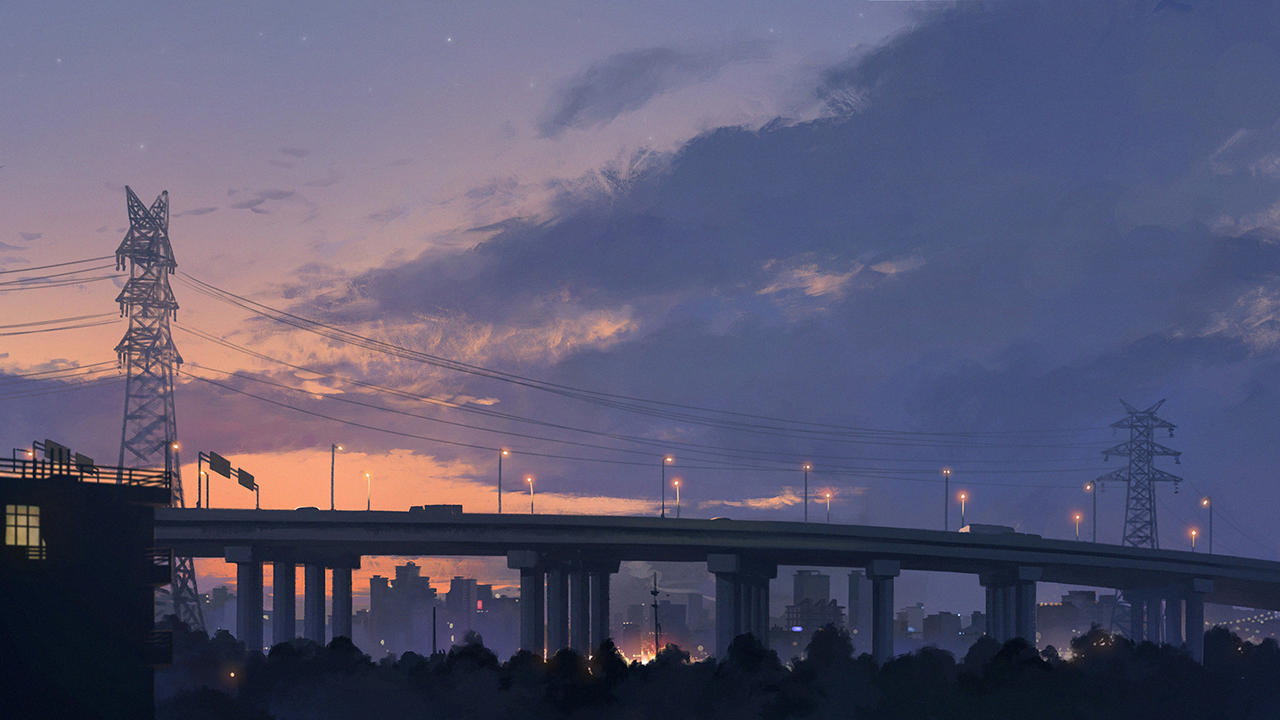
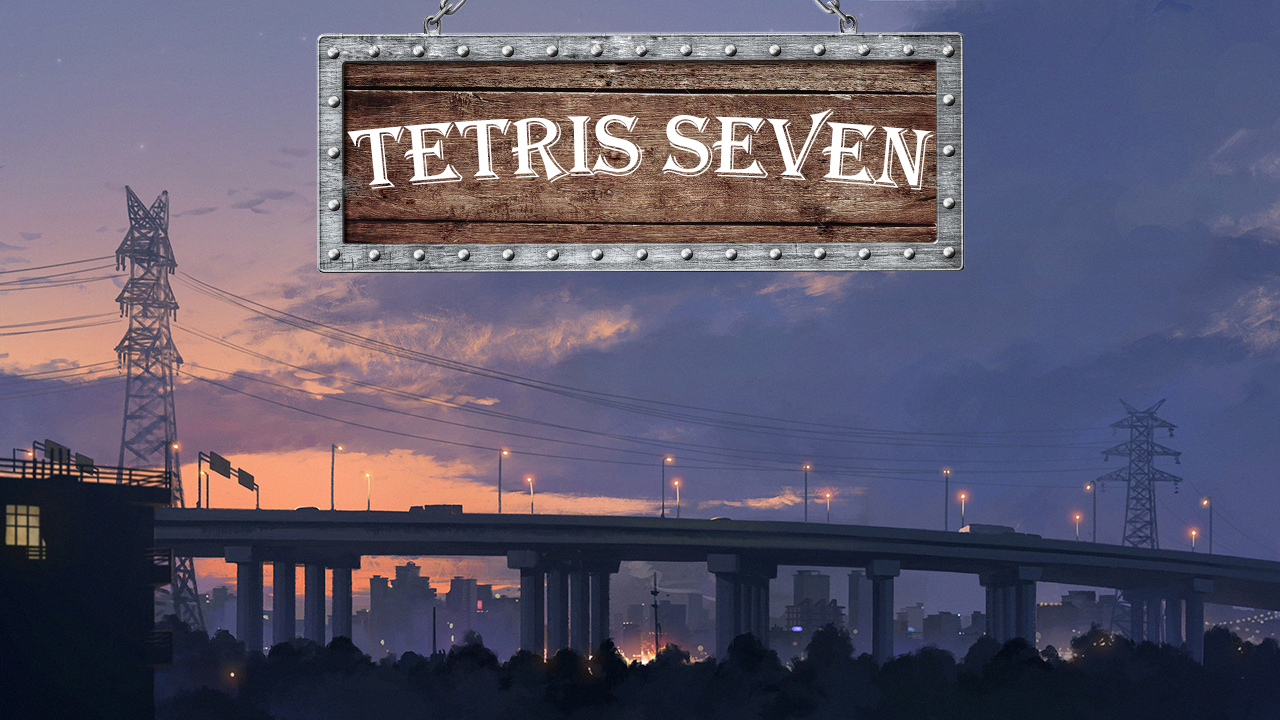
백그라운드 이미지 수정, 튜토리얼 스텝 딜레이 수정

Changed region(s): [[0.25, 0.0, 0.7812, 0.3972]]

diff --git a/src/main/java/kr/ac/jbnu/se/tetris/Main.java b/src/main/java/kr/ac/jbnu/se/tetris/Main.java
@@ -11,10 +11,10 @@ public class Main {
         //TetrisFrameController game = new TetrisFrameForTwo();
         //game.setLocationRelativeTo(null);
         //game.init();
-        LoginScreen loginScreen=new LoginScreen();
+        //LoginScreen loginScreen=new LoginScreen();
 
-        //MainPage mainPage = new MainPage();
-        //mainPage.setLocationRelativeTo(null);
+        MainPage mainPage = new MainPage();
+        mainPage.setLocationRelativeTo(null);
         //new Page();
         //WebSocketService.getInstance().startMatching();
 
